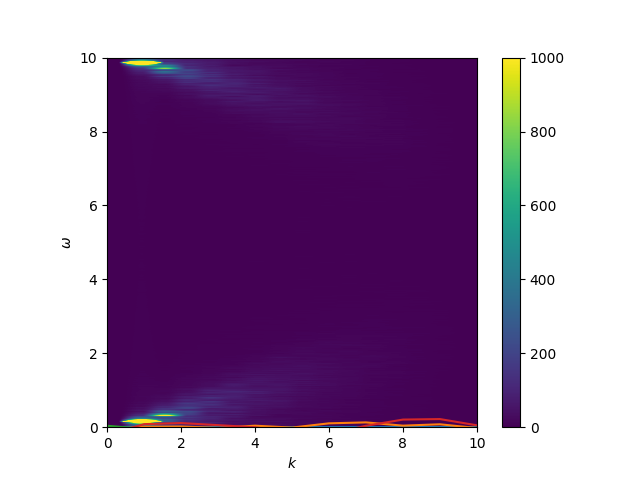
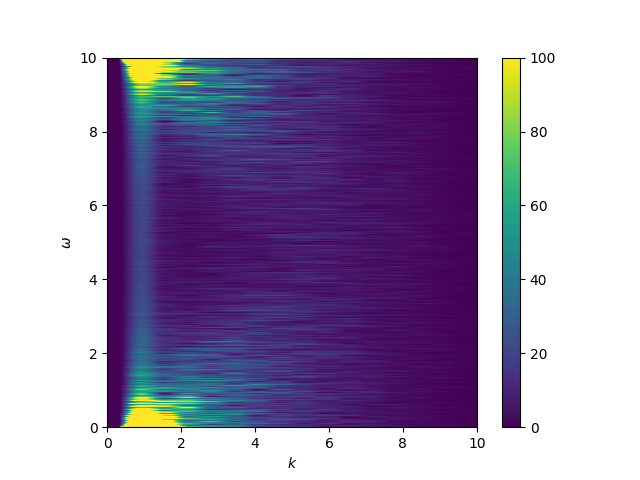
commit to change branch

diff --git a/diagnostics/h5plotter.py b/diagnostics/h5plotter.py
@@ -13,7 +13,7 @@ def readH5(filename, Ex_field, Ey_field, charge_field, vec_part1, vec_part2):
     charge_key = list(f[first_key[2]].keys())
 
     particles_1_key = list(f[first_key[3]].keys())
-    particles_2_key = list(f[first_key[4]].keys())
+    # particles_2_key = list(f[first_key[4]].keys())
 
     Ex_field_aux = []
     Ey_field_aux = []
@@ -33,14 +33,14 @@ def readH5(filename, Ex_field, Ey_field, charge_field, vec_part1, vec_part2):
     for i in range(0, len(Ex_key)):
         vec_particles_1_aux.append(f[first_key[3]][particles_1_key[i]][()])
     
-    for i in range(0, len(Ex_key)):
-        vec_particles_2_aux.append(f[first_key[4]][particles_2_key[i]][()])
+    # for i in range(0, len(Ex_key)):
+    #     vec_particles_2_aux.append(f[first_key[4]][particles_2_key[i]][()])
 
     Ex_field.append(Ex_field_aux)
     Ey_field.append(Ey_field_aux)
     charge_field.append(charge_field_aux)
     vec_part1.append(vec_particles_1_aux)
-    vec_part2.append(vec_particles_2_aux)
+    # vec_part2.append(vec_particles_2_aux)
 
 
 ##########! varibles to change 
@@ -66,7 +66,7 @@ vec_part1 = []
 vec_part2 = []
 
 for i in range(0, number_ranks):
-    filename = results_path + "newdata_rank_" + str(i) + ".h5"
+    filename = results_path + "newdata_0_rank_" + str(i) + ".h5"
     filename_vec.append(filename)
 
 # print(filename_vec)
@@ -110,29 +110,29 @@ for count_plot in range(0, counter_space):
         vy_data.append(vec_part1[3][count_plot][i][5])
     
 
-    for i in range(0, len(vec_part2[0][count_plot])):
-        x_data.append(vec_part2[0][count_plot][i][0]*dx + vec_part2[0][count_plot][i][2])
-        y_data.append(vec_part2[0][count_plot][i][1]*dy + vec_part2[0][count_plot][i][3])
-        vx_data.append(vec_part2[0][count_plot][i][4])
-        vy_data.append(vec_part2[0][count_plot][i][5])
+    # for i in range(0, len(vec_part2[0][count_plot])):
+    #     x_data.append(vec_part2[0][count_plot][i][0]*dx + vec_part2[0][count_plot][i][2])
+    #     y_data.append(vec_part2[0][count_plot][i][1]*dy + vec_part2[0][count_plot][i][3])
+    #     vx_data.append(vec_part2[0][count_plot][i][4])
+    #     vy_data.append(vec_part2[0][count_plot][i][5])
 
-    for i in range(0, len(vec_part2[1][count_plot])):
-        x_data.append(lx + vec_part2[1][count_plot][i][0]*dx + vec_part2[1][count_plot][i][2])
-        y_data.append(vec_part2[1][count_plot][i][1]*dy + vec_part2[1][count_plot][i][3])
-        vx_data.append(vec_part2[1][count_plot][i][4])
-        vy_data.append(vec_part2[1][count_plot][i][5])
+    # for i in range(0, len(vec_part2[1][count_plot])):
+    #     x_data.append(lx + vec_part2[1][count_plot][i][0]*dx + vec_part2[1][count_plot][i][2])
+    #     y_data.append(vec_part2[1][count_plot][i][1]*dy + vec_part2[1][count_plot][i][3])
+    #     vx_data.append(vec_part2[1][count_plot][i][4])
+    #     vy_data.append(vec_part2[1][count_plot][i][5])
 
-    for i in range(0, len(vec_part2[2][count_plot])):
-        x_data.append(vec_part2[2][count_plot][i][0]*dx + vec_part2[2][count_plot][i][2])
-        y_data.append(ly + vec_part2[2][count_plot][i][1]*dy + vec_part2[2][count_plot][i][3])
-        vx_data.append(vec_part2[2][count_plot][i][4])
-        vy_data.append(vec_part2[2][count_plot][i][5])
+    # for i in range(0, len(vec_part2[2][count_plot])):
+    #     x_data.append(vec_part2[2][count_plot][i][0]*dx + vec_part2[2][count_plot][i][2])
+    #     y_data.append(ly + vec_part2[2][count_plot][i][1]*dy + vec_part2[2][count_plot][i][3])
+    #     vx_data.append(vec_part2[2][count_plot][i][4])
+    #     vy_data.append(vec_part2[2][count_plot][i][5])
 
-    for i in range(0, len(vec_part2[3][count_plot])):
-        x_data.append(lx + vec_part2[3][count_plot][i][0]*dx + vec_part2[3][count_plot][i][2])
-        y_data.append(ly + vec_part2[3][count_plot][i][1]*dy + vec_part2[3][count_plot][i][3])
-        vx_data.append(vec_part2[3][count_plot][i][4])
-        vy_data.append(vec_part2[3][count_plot][i][5])
+    # for i in range(0, len(vec_part2[3][count_plot])):
+    #     x_data.append(lx + vec_part2[3][count_plot][i][0]*dx + vec_part2[3][count_plot][i][2])
+    #     y_data.append(ly + vec_part2[3][count_plot][i][1]*dy + vec_part2[3][count_plot][i][3])
+    #     vx_data.append(vec_part2[3][count_plot][i][4])
+    #     vy_data.append(vec_part2[3][count_plot][i][5])
 
 
     snapshot_x.append(x_data)
@@ -166,7 +166,7 @@ anim = animation.FuncAnimation(fig, animate_func,
                                interval = 1000 / fps, # in ms
                                )
 
-anim.save(results_path+'videos/newtest2_part_hdf5_anim.mp4', fps=fps, extra_args=['-vcodec', 'libx264'])
+anim.save(results_path+'videos/electron_part_hdf5_anim.mp4', fps=fps, extra_args=['-vcodec', 'libx264'])
 
 print('Particles Anim Done!')
 
@@ -192,7 +192,7 @@ anim = animation.FuncAnimation(fig, animate_func,
                                interval = 1000 / fps, # in ms
                                )
 
-anim.save(results_path+'videos/newtest2_xphase_hdf5_anim.mp4', fps=fps, extra_args=['-vcodec', 'libx264'])
+anim.save(results_path+'videos/electron_xphase_hdf5_anim.mp4', fps=fps, extra_args=['-vcodec', 'libx264'])
 
 print('X Phase Space Anim Done!')
 
@@ -218,7 +218,7 @@ anim = animation.FuncAnimation(fig, animate_func,
                                interval = 1000 / fps, # in ms
                                )
 
-anim.save(results_path+'videos/newtest2_yphase_hdf5_anim.mp4', fps=fps, extra_args=['-vcodec', 'libx264'])
+anim.save(results_path+'videos/electron_yphase_hdf5_anim.mp4', fps=fps, extra_args=['-vcodec', 'libx264'])
 
 print('Y Phase Space Anim Done!')
 
@@ -315,7 +315,7 @@ anim = animation.FuncAnimation(fig, animate_func,
                                frames = nSeconds * fps,
                                interval = 1000 / fps, # in ms
                                )
-anim.save(results_path+'videos/newtest2_charge_hdf5_anim.mp4', fps=fps, extra_args=['-vcodec', 'libx264'])
+anim.save(results_path+'videos/electron_charge_hdf5_anim.mp4', fps=fps, extra_args=['-vcodec', 'libx264'])
 print('Charge Anim Done!')
 
 ##!Ex_field Animation
@@ -338,7 +338,7 @@ anim = animation.FuncAnimation(fig, animate_func,
                                frames = nSeconds * fps,
                                interval = 1000 / fps, # in ms
                                )
-anim.save(results_path+'videos/newtest2_Ex_field_hdf5_anim.mp4', fps=fps, extra_args=['-vcodec', 'libx264'])
+anim.save(results_path+'videos/electron_Ex_field_hdf5_anim.mp4', fps=fps, extra_args=['-vcodec', 'libx264'])
 print('Ex field Anim Done!')
 
 ##!Ey_field Animation
@@ -362,7 +362,7 @@ anim = animation.FuncAnimation(fig, animate_func,
                                frames = nSeconds * fps,
                                interval = 1000 / fps, # in ms
                                )
-anim.save(results_path+'videos/newtest2_Ey_field_hdf5_anim.mp4', fps=fps, extra_args=['-vcodec', 'libx264'])
+anim.save(results_path+'videos/electron_Ey_field_hdf5_anim.mp4', fps=fps, extra_args=['-vcodec', 'libx264'])
 print('Ey field Anim Done!')
 
 

diff --git a/diagnostics/h5fft.py b/diagnostics/h5fft.py
@@ -66,7 +66,7 @@ vec_part1 = []
 vec_part2 = []
 
 for i in range(0, number_ranks):
-    filename = results_path + "newdata_rank_" + str(i) + ".h5"
+    filename = results_path + "newdata_0_rank_" + str(i) + ".h5"
     filename_vec.append(filename)
 
 # print(filename_vec)
@@ -133,11 +133,11 @@ for i in range(0, len(snapshots_Ex)):
 # print(xfield_Ex_wind[0])
 # print(xfield_Ex_wind[10])
 
-plt.plot(xfield_Ex_wind[0])
-plt.plot(xfield_Ex_wind[10])
-plt.plot(xfield_Ex_wind[20])
-plt.plot(xfield_Ex_wind[30])
-plt.savefig("ex_test.png")
+# plt.plot(xfield_Ex_wind[0])
+# plt.plot(xfield_Ex_wind[10])
+# plt.plot(xfield_Ex_wind[20])
+# plt.plot(xfield_Ex_wind[30])
+# plt.savefig("ex_test.png")
 
 fftSol = np.abs(np.fft.fft2(xfield_Ex_wind))
 
@@ -173,7 +173,7 @@ print(wmax*1e-9)
 # print(timefrequencies)
 
 index_vec = round(len(fftSol[1, :])/2)
-c = plt.imshow(fftSol[::-1, :-index_vec], origin="lower", extent=[0, 10, 0, 10], vmin = 0, vmax = 1000)
+c = plt.imshow(fftSol[::-1, :-index_vec], origin="lower", extent=[0, 10, 0, 10], vmin = 0, vmax = 100)
 plt.colorbar(c)
 plt.xlabel(r'$k $')
 plt.ylabel(r'$\omega$')
